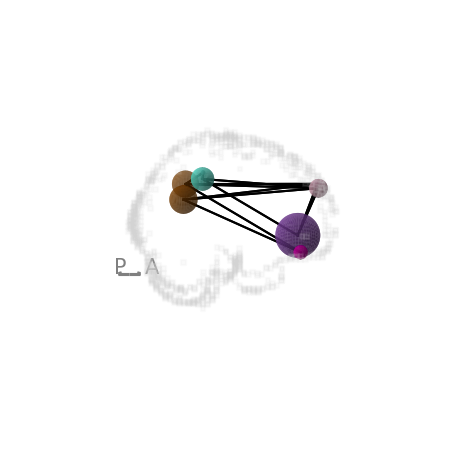
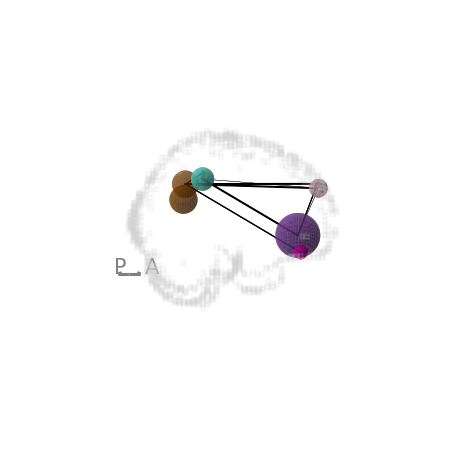
edges_width

Changed region(s): [[0.4044, 0.3733, 0.7156, 0.56]]

diff --git a/netonbrain/plotting/plot_edges.py b/netonbrain/plotting/plot_edges.py
@@ -23,10 +23,21 @@ def _plot_edges(ax, nodes, edges, edgewidth='auto', edgewidthscale=1, edgecolor=
     Nothing
     """
     # If numpy array.
-    for e in list(zip(*np.where(edges!=0))):
-        if edgewidth != 'auto':
-            ew = edgewidth * edgewidthscale
-        else:
-            ew = edges[e] * edgewidthscale
-        # NOTE CURRENTLY LOC IS FILTERING EDGES. CHECK FOR COMPATIBILITY WITH HOW NODES works elsewhere
-        ax.plot(nodes.loc[list(e)]['x'], nodes.loc[list(e)]['y'], nodes.loc[list(e)]['z'], color=edgecolor, linewidth=ew)
+    # for e in list(zip(*np.where(edges!=0))):
+    #     print(e)
+    #     if edgewidth != 'auto':
+    #         ew = edgewidth * edgewidthscale
+    #     else:
+    #         ew = edges[e] * edgewidthscale
+    #     print(nodes.loc[list(e)]['x'])
+    #     # NOTE CURRENTLY LOC IS FILTERING EDGES. CHECK FOR COMPATIBILITY WITH HOW NODES works elsewhere
+    #     ax.plot(nodes.loc[list(e)]['x'], nodes.loc[list(e)]['y'], nodes.loc[list(e)]['z'], color=edgecolor, linewidth=ew)
+    #if dataframe
+    for e, row in edges.iterrows():
+        if row['i'] != 0 and row['j'] != 0:
+            if edgewidth != 'auto':
+                ew = edgewidth * edgewidthscale
+            else:
+                ew = row['weight'] * edgewidthscale
+            #print(nodes.loc[edges.values.tolist()]['x'])
+            ax.plot(nodes.loc[list((row['i'],row['j']))]['x'], nodes.loc[list((row['i'],row['j']))]['y'], nodes.loc[list((row['i'],row['j']))]['z'], color=edgecolor, linewidth=ew)

diff --git a/examples/example1.py b/examples/example1.py
@@ -25,11 +25,12 @@ edges = np.zeros([n, n])
 edges[ind[0][eon[:m]], ind[1][eon[:m]]] = 1
 edges += edges.transpose()
 
-# edgesdf = pd.DataFrame()
-# edgesdf["i"],edgesdf["j"] = edges[:,0], edges[:,1]
-# weights = ['0.608', '0.475', '0.456', '0.578', '0.415', '0.953', '0.204', '0.124']
-# edgesdf['weight']=weights
-# edges = edgesdf
+edgesdf = pd.DataFrame()
+edges_list = list(zip(*np.where(edges!=0)))
+edgesdf["i"],edgesdf["j"] = [i[0] for i in edges_list], [i[1] for i in edges_list]
+weights = ['0.608', '0.475', '0.456', '0.578', '0.415', '0.953', '0.204', '0.124', '0.608', '0.475', '0.456', '0.578', '0.415', '0.953', '0.204', '0.124', '0.608', '0.475', '0.456', '0.578', '0.415', '0.953', '0.204', '0.124']
+edgesdf['weight']=weights
+edges = edgesdf
 
 ### Plot single view
 nob.plot(template='MNI152NLin2009cAsym', templatestyle='glass',

diff --git a/netonbrain/plotting/plot_spheres.py b/netonbrain/plotting/plot_spheres.py
@@ -1,7 +1,6 @@
 import matplotlib.pyplot as plt
 import numpy as np
 import pandas as pd 
-from matplotlib import cm
 import random
 
 
